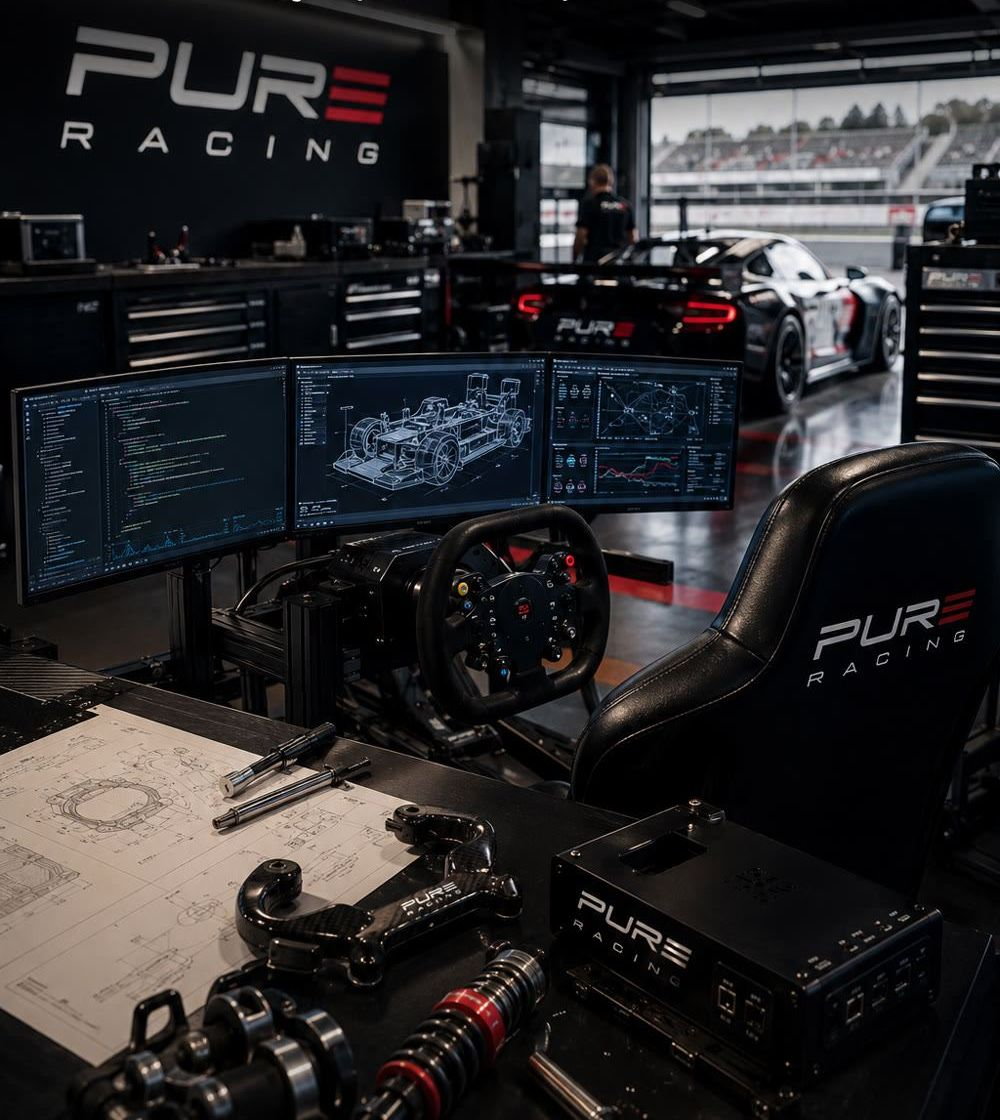
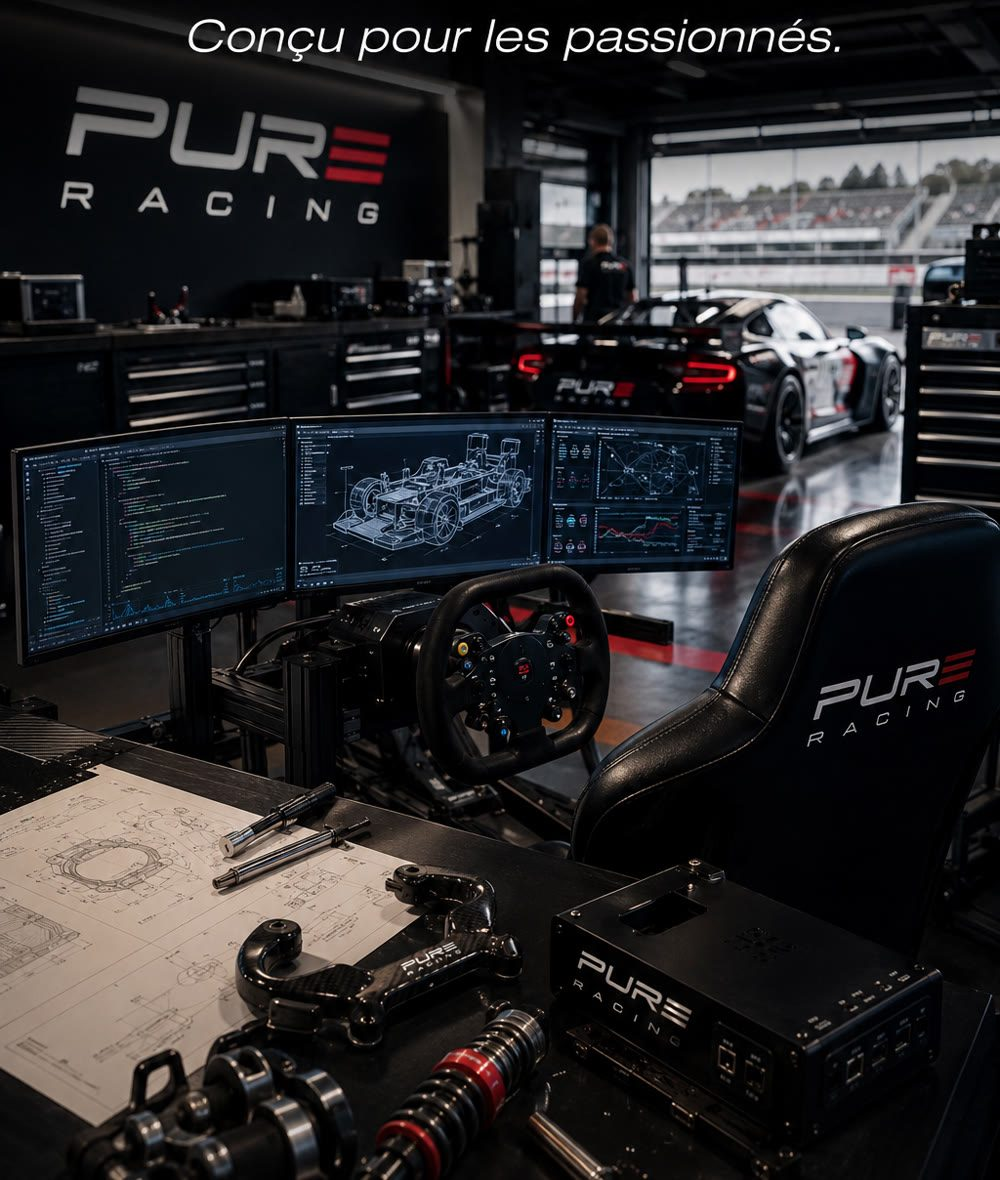
Accueil : image d'en-tête entière, sections contrastées
Retours de Pat :
- l'image d'en-tête était trop tronquée et voilée : elle est maintenant
  affichée en entier dans un cadre à droite du titre (« Conçu pour les
  passionnés » compris) ;
- tout était du même bleu : les sections alternent bleu nuit, acier gris à
  fines rayures carbone, bleu profond, et un fond noir studio pour la vidéo.

Claude-Session: https://claude.ai/code/session_01JZvqLthTGmd1Sj2VmRxZQc

diff --git a/site/index.html b/site/index.html
@@ -35,13 +35,23 @@ h2 span,h1 span{color:var(--accent)}
 .btn.red:hover{background:linear-gradient(180deg,#FF4C57,#D2101D)}
 .btn small{font:600 12px var(--body);letter-spacing:0;text-transform:none;opacity:.85}
 
+
+/* Tons des sections (Pat : plus de contraste entre les blocs) : bleu nuit, acier gris
+   à fines rayures carbone, et bleu profond pour la vidéo et l'installation. */
+.tone-steel{background:#141821 repeating-linear-gradient(135deg,rgba(255,255,255,.018) 0 2px,transparent 2px 9px);
+  --panel:#1D2230;--panel2:#191D29;--line:#2B3242;--line2:#3B4356;--muted:#C2C8D6;--dim:#9AA2B4;border-block:1px solid #262c3a}
+.tone-navy{background:var(--bg)}
+.tone-deep{background:var(--bg2);border-block:1px solid var(--line)}
+.tone-black{background:radial-gradient(ellipse at 50% 0%,#1a1f2c 0%,#08090d 70%);border-block:1px solid #20242e;--line:#262a35;--muted:#C2C8D6}
+
 /* ---------- Héros ---------- */
-.hero{position:relative;overflow:hidden;background:var(--bg2);border-bottom:1px solid var(--line)}
-.hero .photo{position:absolute;inset:0 0 0 auto;width:min(58%,1100px);background:url(img/garage-hero.jpg) center 30%/cover}
-.hero .photo::after{content:"";position:absolute;inset:0;background:linear-gradient(90deg,var(--bg2) 0%,rgba(5,8,38,.82) 28%,rgba(5,8,38,.15) 70%,rgba(5,8,38,.35) 100%)}
-.hero .wrap{position:relative;padding-block:72px 64px}
+.hero{position:relative;overflow:hidden;background:radial-gradient(ellipse at 75% 40%,#16204a 0%,var(--bg2) 60%);border-bottom:1px solid var(--line)}
+.hero .wrap{position:relative;padding-block:56px;display:grid;grid-template-columns:minmax(0,1fr) minmax(0,.95fr);gap:48px;align-items:center}
+.hero .shot{position:relative;border-radius:16px;overflow:hidden;border:1px solid #2C3A66;box-shadow:0 30px 70px rgba(0,0,0,.55),0 0 0 6px rgba(255,255,255,.02)}
+.hero .shot img{width:100%;aspect-ratio:1000/1180;object-fit:cover}
+.hero .shot::after{content:"";position:absolute;inset:auto 0 0 0;height:4px;background:linear-gradient(90deg,var(--accent),transparent)}
 .hero .logo{width:300px;opacity:.95}
-.hero h1{font-size:clamp(48px,7.5vw,92px);font-style:italic;margin-top:28px;max-width:11ch}
+.hero h1{font-size:clamp(48px,6.5vw,96px);font-style:italic;margin-top:28px;max-width:11ch}
 .hero .lead{max-width:46ch}
 .hero .cta{display:flex;flex-wrap:wrap;gap:12px;margin-top:30px}
 .hero .facts{display:flex;flex-wrap:wrap;gap:10px 28px;margin-top:36px;color:var(--dim);font-size:14px}
@@ -124,7 +134,8 @@ h2 span,h1 span{color:var(--accent)}
   .cards,.perks{grid-template-columns:repeat(2,minmax(0,1fr))}
   .about,.install{grid-template-columns:minmax(0,1fr)}
   .dl{position:static}
-  .hero .photo{width:100%;opacity:.4}
+  .hero .wrap{grid-template-columns:minmax(0,1fr)}
+  .hero .shot{max-width:520px}
 }
 @media (max-width:640px){
   section{padding-block:44px}
@@ -140,8 +151,8 @@ h2 span,h1 span{color:var(--accent)}
 
 <!-- ================= HÉROS ================= -->
 <header class="hero">
-  <div class="photo" role="img" aria-label="Simulateur Pure Racing dans un garage de course"></div>
   <div class="wrap">
+   <div>
     <img class="logo" src="img/logo.png" alt="Pure Racing FX">
     <h1>Ton écurie <span>de course</span></h1>
     <p class="lead">Pit Box réunit tous les outils Pure Racing dans un seul plugin SimHub : une radio d'équipe, un coach virage par virage, la télémétrie, un ingénieur pour ton setup, et ce qu'il faut pour faire vibrer, bouger et ressentir ta voiture.</p>
@@ -155,11 +166,13 @@ h2 span,h1 span{color:var(--accent)}
       <div><b>Tablette</b>réglages en roulant</div>
       <div><b>En français</b>radio et notices</div>
     </div>
+   </div>
+    <div class="shot"><img src="img/garage-hero.jpg" alt="Simulateur Pure Racing dans un garage de course, conçu pour les passionnés"></div>
   </div>
 </header>
 
 <!-- ================= PRÉSENTATION ================= -->
-<section>
+<section class="tone-steel">
   <div class="wrap about">
     <div>
       <div class="kicker">Pure Racing FX</div>
@@ -175,7 +188,7 @@ h2 span,h1 span{color:var(--accent)}
 </section>
 
 <!-- ================= VIDÉO ================= -->
-<section id="video" style="background:var(--bg2);border-block:1px solid var(--line)">
+<section id="video" class="tone-black">
   <div class="wrap tour">
     <div class="head">
       <div>
@@ -196,7 +209,7 @@ h2 span,h1 span{color:var(--accent)}
 </section>
 
 <!-- ================= MODULES ================= -->
-<section id="modules" style="background:var(--bg2);border-block:1px solid var(--line)">
+<section id="modules" class="tone-navy">
   <div class="wrap">
     <div class="kicker">Les modules</div>
     <h2>Une séance <span>de A à Z</span></h2>
@@ -272,7 +285,7 @@ h2 span,h1 span{color:var(--accent)}
 </section>
 
 <!-- ================= ATOUTS ================= -->
-<section>
+<section class="tone-steel">
   <div class="wrap">
     <div class="kicker">Pit Box au quotidien</div>
     <h2>Pensé pour <span>le baquet</span></h2>
@@ -302,7 +315,7 @@ h2 span,h1 span{color:var(--accent)}
 </section>
 
 <!-- ================= JEUX ================= -->
-<section style="padding-top:0">
+<section class="tone-steel" style="padding-top:0;border-top:0">
   <div class="wrap">
     <div class="kicker">Compatibilité</div>
     <h2>Tes <span>simulations</span></h2>
@@ -315,7 +328,7 @@ h2 span,h1 span{color:var(--accent)}
 </section>
 
 <!-- ================= INSTALLATION ================= -->
-<section id="installation" style="background:var(--bg2);border-block:1px solid var(--line)">
+<section id="installation" class="tone-deep">
   <div class="wrap">
     <div class="kicker">Installation</div>
     <h2>En piste en <span>cinq minutes</span></h2>
@@ -340,7 +353,7 @@ h2 span,h1 span{color:var(--accent)}
 </section>
 
 <!-- ================= SOUTIEN ================= -->
-<section>
+<section class="tone-steel">
   <div class="wrap">
     <div class="support">
       <div>
